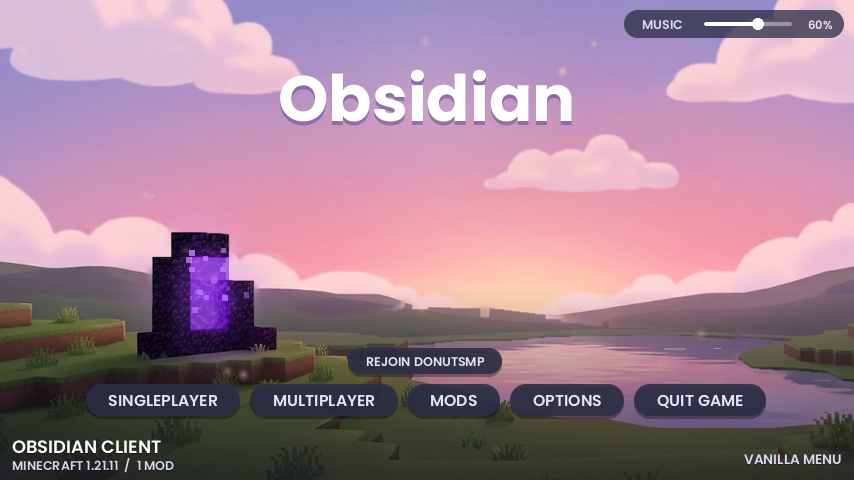
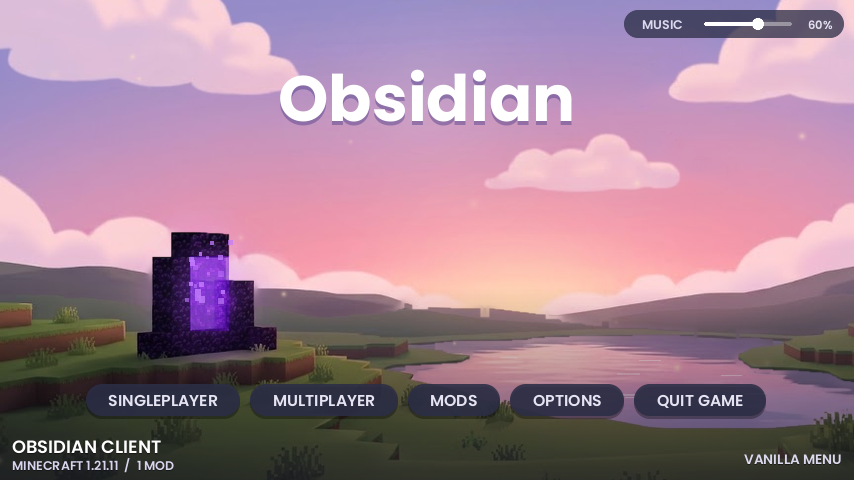
Obsidian: remove the Rejoin server pill
Drops the quick-join button, the mixin that remembered the last server,
and its config fields.

Claude-Session: https://claude.ai/code/session_01Ts3KewtNYQUeKNdiFXbGjy

diff --git a/obsidian-client/src/main/java/dev/obsidian/gui/ObsidianTitleScreen.java b/obsidian-client/src/main/java/dev/obsidian/gui/ObsidianTitleScreen.java
@@ -1,20 +1,16 @@
 package dev.obsidian.gui;
 
 import dev.obsidian.ObsidianClient;
-import dev.obsidian.ObsidianConfig;
 import net.minecraft.SharedConstants;
 import net.minecraft.client.font.TextRenderer;
 import net.minecraft.client.gui.Click;
 import net.minecraft.client.gui.DrawContext;
 import net.minecraft.client.gui.screen.Screen;
 import net.minecraft.client.gui.screen.TitleScreen;
-import net.minecraft.client.gui.screen.multiplayer.ConnectScreen;
 import net.minecraft.client.gui.screen.multiplayer.MultiplayerScreen;
 import net.minecraft.client.gui.screen.option.OptionsScreen;
 import net.minecraft.client.gui.screen.world.SelectWorldScreen;
 import net.minecraft.client.input.KeyInput;
-import net.minecraft.client.network.ServerAddress;
-import net.minecraft.client.network.ServerInfo;
 import net.minecraft.text.Text;
 import net.minecraft.util.Util;
 import net.minecraft.util.math.MathHelper;
@@ -246,16 +242,13 @@ public class ObsidianTitleScreen extends Screen {
 		}
 	}
 
-	/**
-	 * The row of slim pill buttons along the bottom. When you have played on a
-	 * server, a small "Rejoin" pill sits above the row.
-	 */
+	/** The row of small pill buttons along the bottom. */
 	private class BarPanel extends Panel {
-		private static final int ROW_H = 16, GAP = 5, QUICK_H = 13;
+		private static final int ROW_H = 16, GAP = 5;
 		private static final String[] LABELS = {"Singleplayer", "Multiplayer", "Mods", "Options", "Quit Game"};
 
 		BarPanel(int screenW) {
-			super("bar", 0, QUICK_H + 5 + ROW_H + 2);
+			super("bar", 0, ROW_H + 2);
 			List<Runnable> actions = List.of(
 				() -> client.setScreen(new SelectWorldScreen(ObsidianTitleScreen.this)),
 				() -> client.setScreen(new MultiplayerScreen(ObsidianTitleScreen.this)),
@@ -273,7 +266,7 @@ public class ObsidianTitleScreen extends Screen {
 			int over = total - (screenW - 16);
 			int shrink = over > 0 ? Math.min(10, (over + LABELS.length - 1) / LABELS.length) : 0;
 			int x = 0;
-			int rowY = QUICK_H + 5;
+			int rowY = 0;
 			for (int i = 0; i < LABELS.length; i++) {
 				String label = LABELS[i];
 				int bw = widths[i] - shrink;
@@ -281,13 +274,6 @@ public class ObsidianTitleScreen extends Screen {
 				x += bw + GAP;
 			}
 			w = x - GAP;
-
-			String server = ObsidianClient.CONFIG.lastServerName;
-			if (server != null && !server.isBlank() && ObsidianClient.CONFIG.lastServerAddress != null) {
-				String label = "Rejoin " + (server.length() > 24 ? server.substring(0, 23) + "\u2026" : server);
-				int qw = Math.min(w, ObsidianButton.pillWidth(label, QUICK_H));
-				buttons.add(new ObsidianButton((w - qw) / 2, 0, qw, QUICK_H, () -> label, ObsidianTitleScreen.this::quickJoin, ObsidianButton.Style.PILL));
-			}
 		}
 
 		@Override
@@ -298,16 +284,6 @@ public class ObsidianTitleScreen extends Screen {
 		@Override
 		protected void renderContent(DrawContext ctx, TextRenderer tr, int mx, int my, float delta) {
 		}
-	}
-
-	private void quickJoin() {
-		ObsidianConfig config = ObsidianClient.CONFIG;
-		if (config.lastServerAddress == null || config.lastServerAddress.isBlank()) {
-			client.setScreen(new MultiplayerScreen(this));
-			return;
-		}
-		ServerInfo info = new ServerInfo(config.lastServerName, config.lastServerAddress, ServerInfo.ServerType.OTHER);
-		ConnectScreen.connect(this, client, ServerAddress.parse(info.address), info, false, null);
 	}
 
 	/** Client name, Minecraft version and mod count, small, in the bottom-left corner. */

diff --git a/obsidian-client/src/main/java/dev/obsidian/ObsidianConfig.java b/obsidian-client/src/main/java/dev/obsidian/ObsidianConfig.java
@@ -24,10 +24,6 @@ public class ObsidianConfig {
 	/** Play the intro animation the first time the menu opens each launch. */
 	public boolean playIntro = true;
 
-	/** Last server joined, for the Quick Join button. */
-	public String lastServerName = null;
-	public String lastServerAddress = null;
-
 	/** Panel id -> {x, y} as fractions of the screen size, so layouts survive window resizes. */
 	public Map<String, float[]> panels = new HashMap<>();
 	/** Bumped when the menu layout changes, so old saved positions are dropped. */

diff --git a/obsidian-client/README.md b/obsidian-client/README.md
@@ -21,8 +21,7 @@ A Fabric mod for Minecraft 1.21.11 that replaces the main menu with the Obsidian
 - **Same background everywhere.** Singleplayer, Multiplayer, Options and the other menus
   show the scene (blurred and darkened by Minecraft as usual) instead of the panorama.
 - **Buttons.** A row of small pill buttons along the bottom: Singleplayer, Multiplayer,
-  Mods, Options, Quit Game. Once you have played on a server, a small "Rejoin <server>"
-  pill appears above them. Every button plays a soft hover and select sound, from the
+  Mods, Options, Quit Game. Every button plays a soft hover and select sound, from the
   "soft" set of [uisfx](https://uisfx.com) (CC0 public domain).
 - **Menu music.** `menu_music.ogg` starts with the intro and loops for as long as you are
   in the menus. It fades out when you join a world and back in when you leave. Vanilla menu
